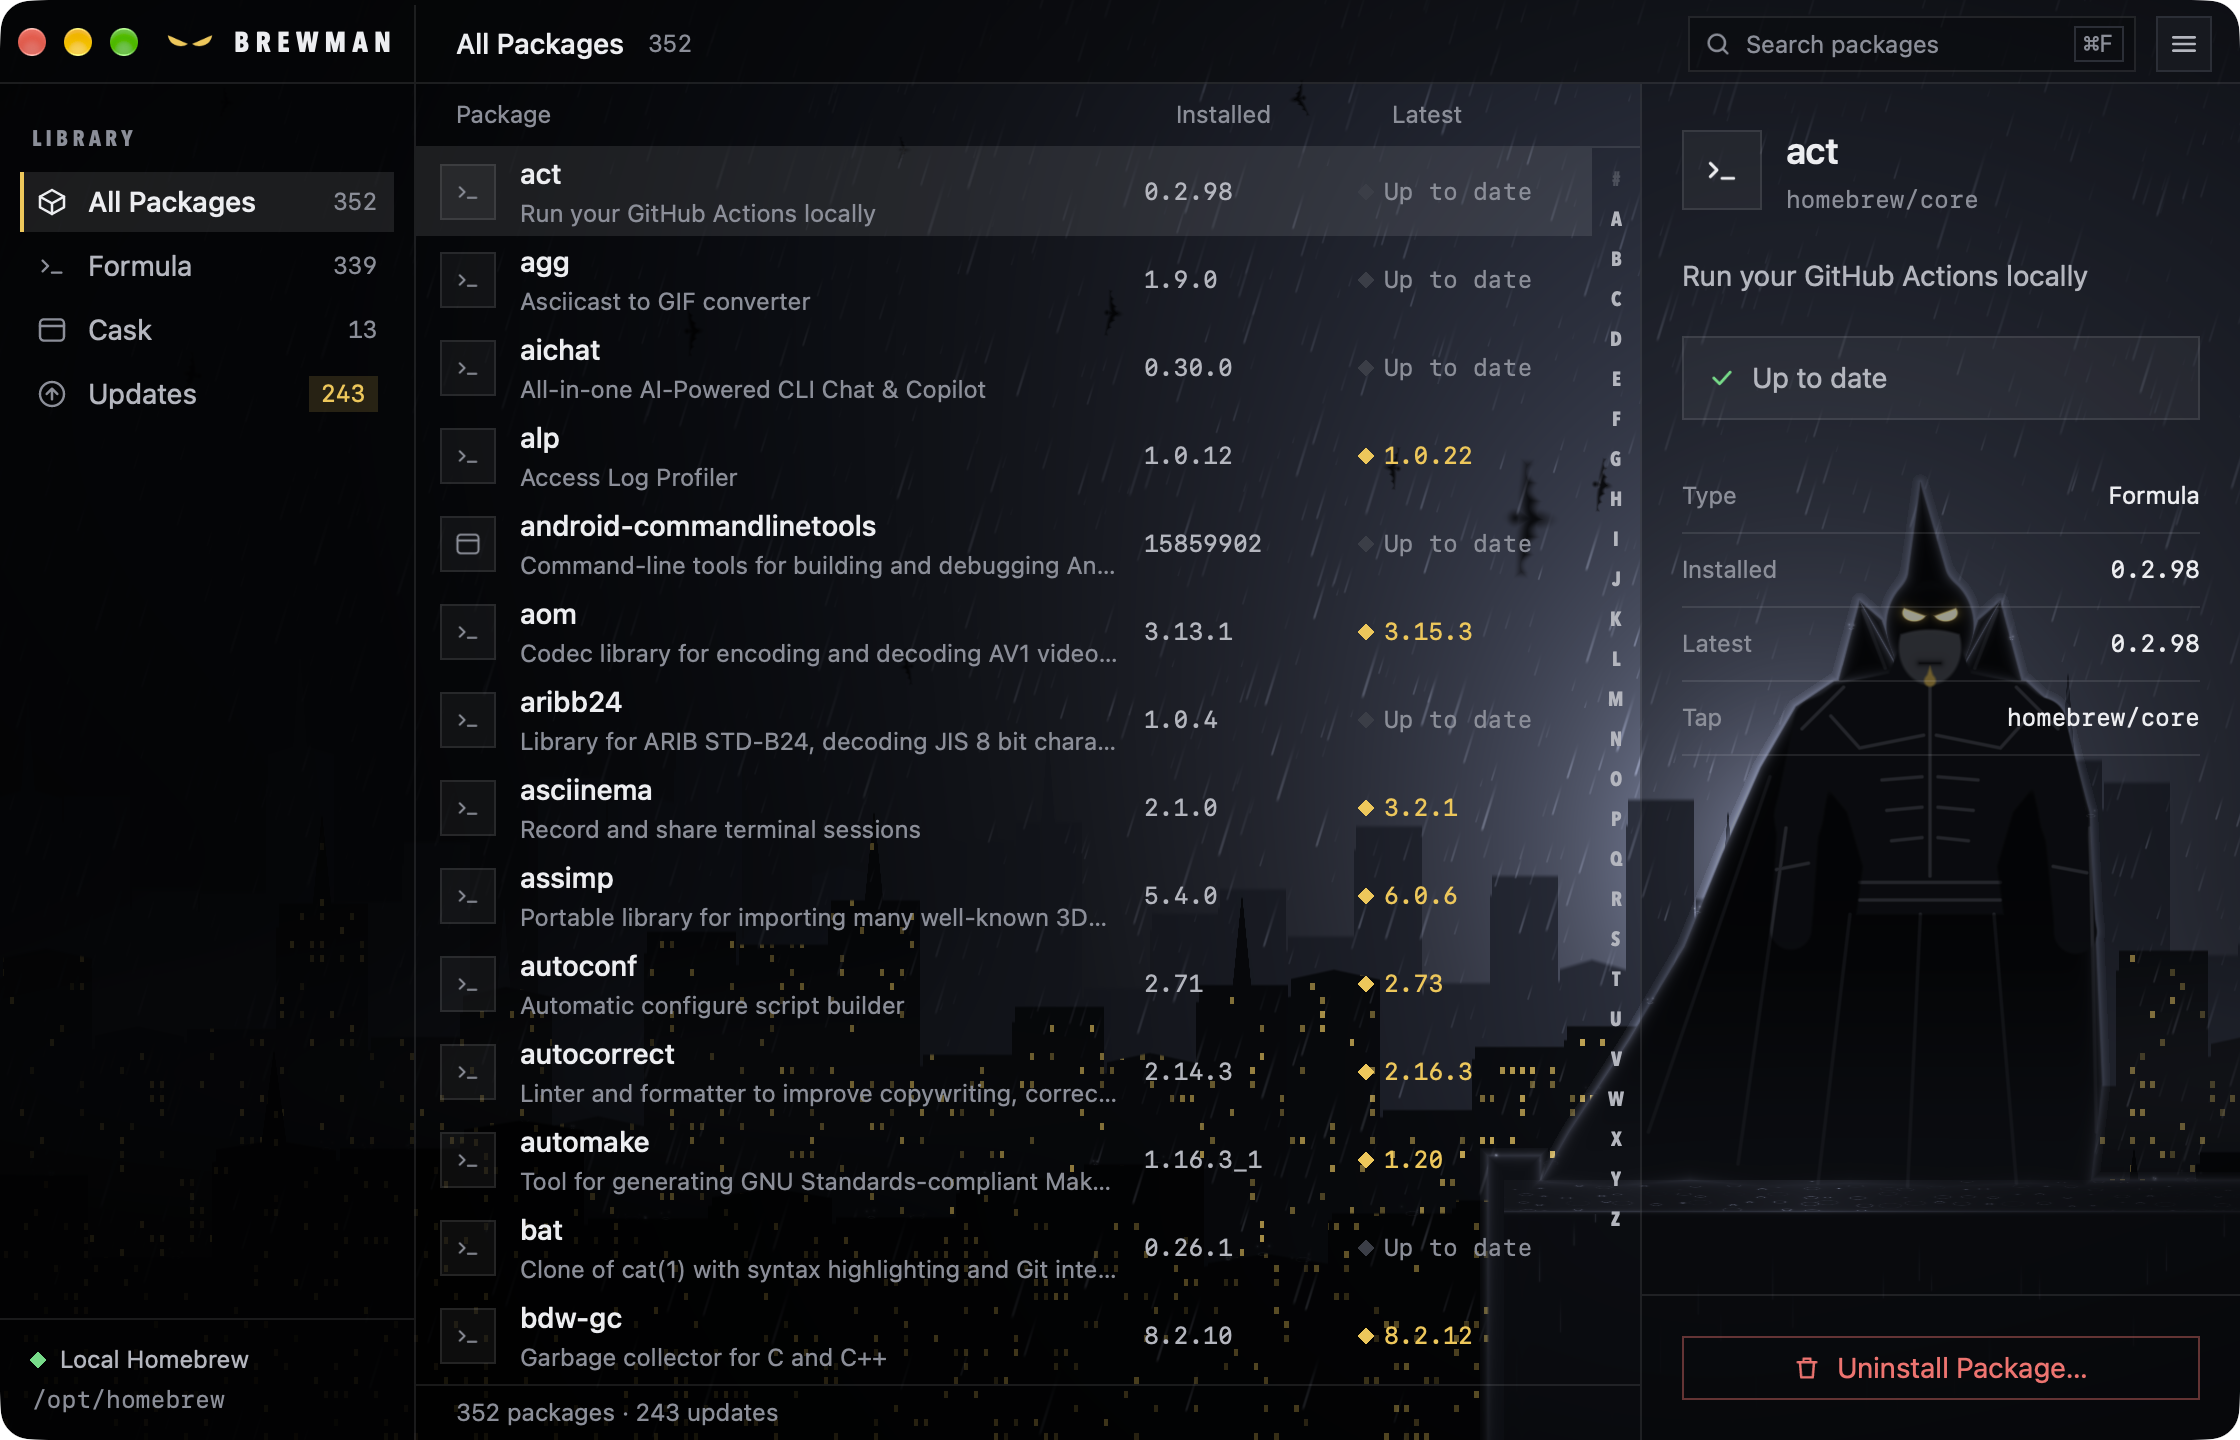
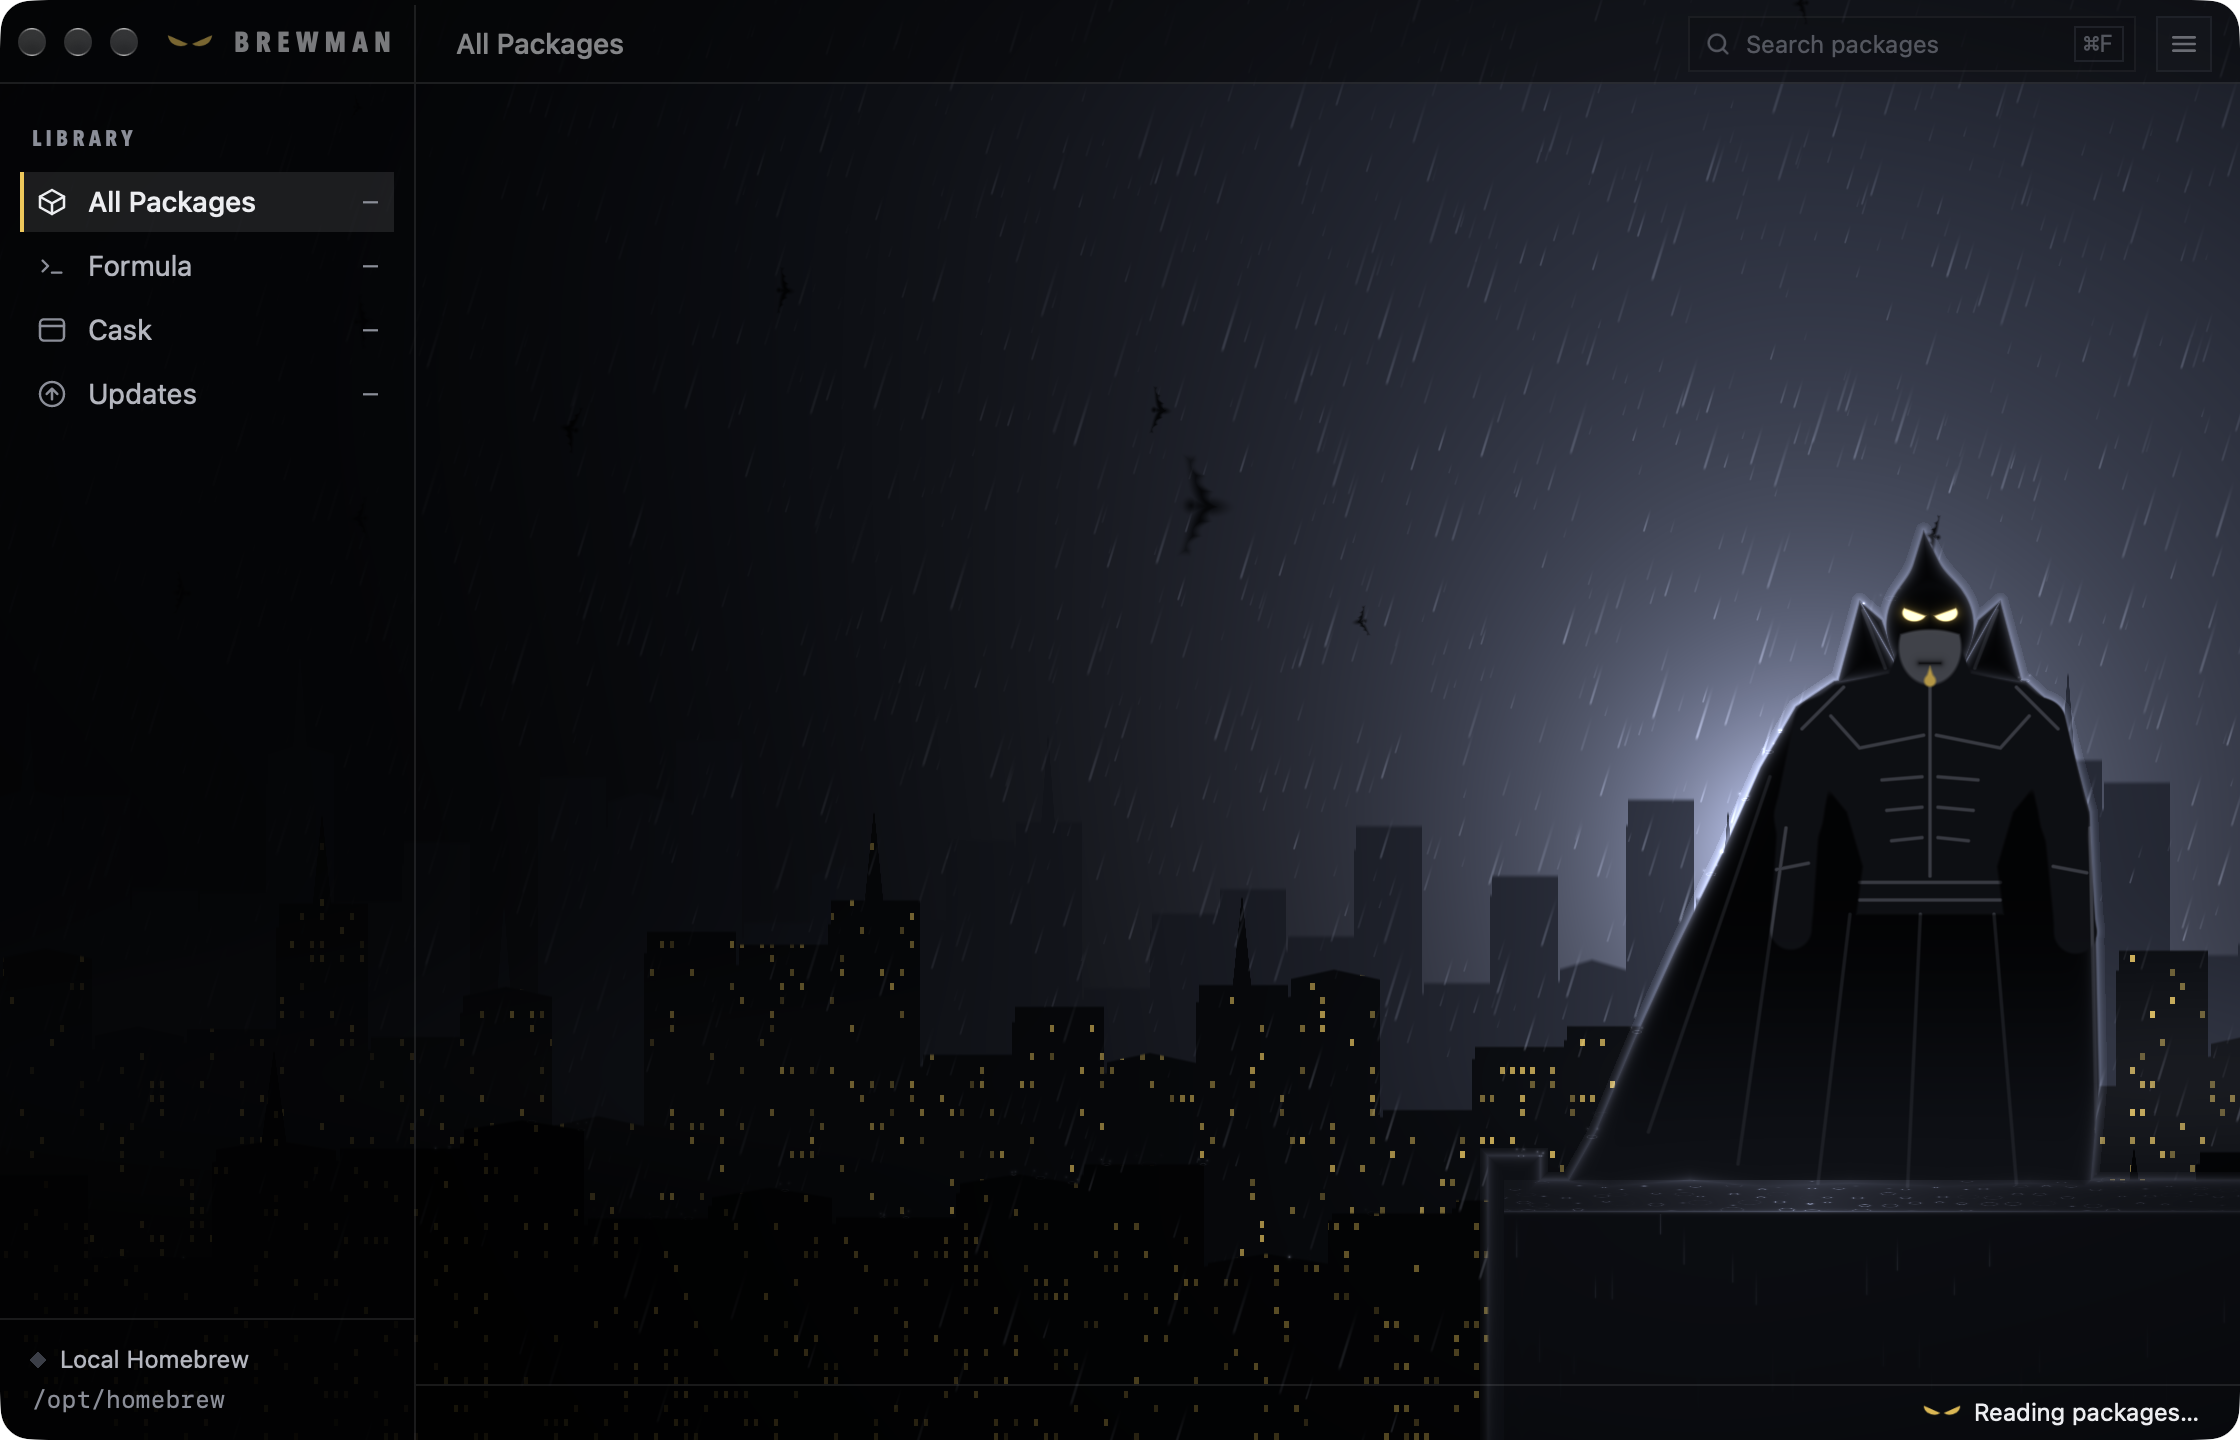
Watcher: a shorter, softer hood peak

diff --git a/src/ui/NightScene.tsx b/src/ui/NightScene.tsx
@@ -106,15 +106,15 @@ fn poly32(p: vec2f, pts: array<vec2f, 32>, n: i32) -> f32 {
 }
 
 // The watcher, Brewman's own: a broad, armored figure standing on the roof, facing out of the frame as if walking
-// toward it through the rain; a hood with one soft peak, the logo's lens eyes, a cape blown out to the left by the
+// toward it through the rain; a hood with two pointed ears, the logo's lens eyes, a cape blown out to the left by the
 // wind that slants the rain. Drawn in frame units around its feet (FEET, y up is negative, 392 tall).
 const FEET: vec2f = vec2f(965.0, 598.0);
 const FIG_SCALE: f32 = 0.8;   // drawn at 0.8 of its own units, feet fixed
 
 fn hood(q: vec2f) -> f32 {
   let head = length((q - vec2f(0.0, -356.0)) / vec2f(1.0, 1.2)) - 27.5;
-  // One tall, sharp peak, leaning slightly back.
-  return smin(head, tri(q, vec2f(-16.0, -374.0), vec2f(14.0, -378.0), vec2f(-6.0, -446.0)), 4.0);
+  let ears = tri(vec2f(abs(q.x), q.y), vec2f(7.0, -380.0), vec2f(24.0, -371.0), vec2f(27.0, -416.0));
+  return smin(head, ears, 4.0);
 }
 
 // A high collar: a stiff panel rising from each shoulder beside the jaw to a point below the eyes, flaring out.
